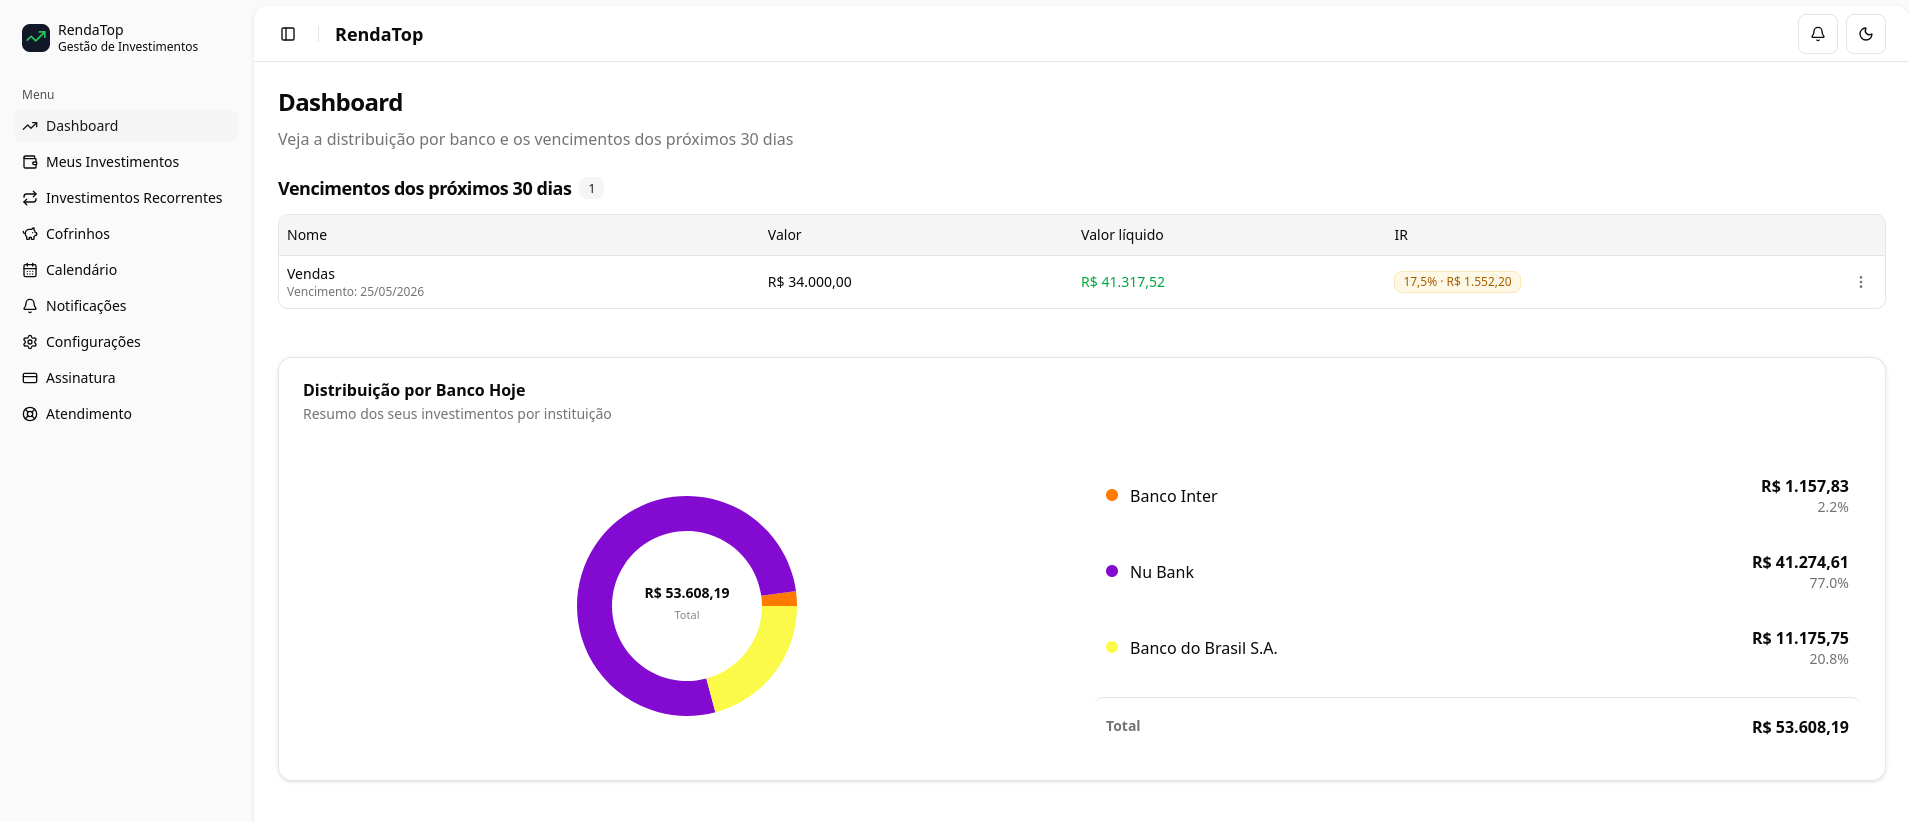
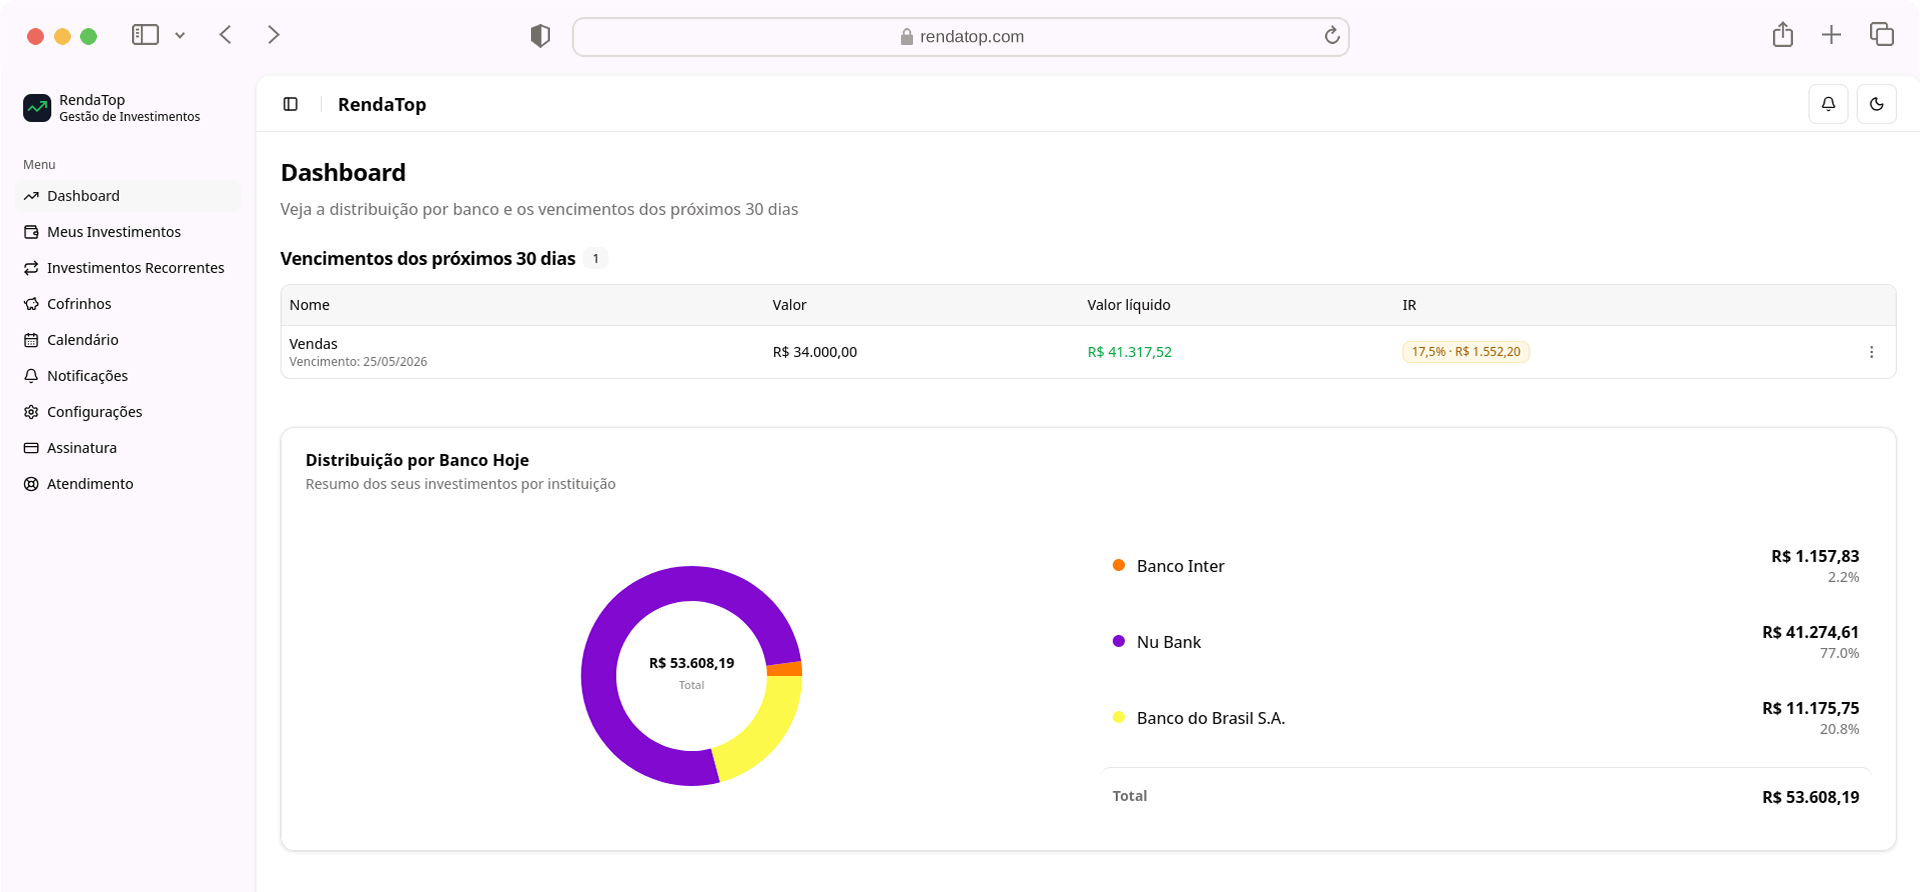
Improving landing interface

diff --git a/landing/nextjs-version/src/app/landing/components/hero-section.tsx b/landing/nextjs-version/src/app/landing/components/hero-section.tsx
@@ -29,23 +29,9 @@ export function HeroSection() {
           </h1>
 
           <p className="mx-auto mb-10 max-w-2xl text-lg text-muted-foreground sm:text-xl">
-            O RendaTop centraliza dashboard, carteira, calendario, notificacoes e configuracoes para voce acompanhar seus investimentos com mais organizacao.
+            No RendaTop você tem dashboard, carteira, calendário com notificações de vencimentos e leitura de comprovantes automáticas para você gerenciar e acompanhar seus investimentos com mais organizaçao.
           </p>
 
-          <div className="flex flex-col gap-4 sm:flex-row sm:justify-center">
-            <Button size="lg" className="text-base cursor-pointer" asChild>
-              <Link href="/app/signup">
-                Criar conta
-                <ArrowRight className="ml-2 h-4 w-4" />
-              </Link>
-            </Button>
-            <Button variant="outline" size="lg" className="text-base cursor-pointer" asChild>
-              <a href="#screenshots">
-                <Play className="mr-2 h-4 w-4" />
-                Ver telas do app
-              </a>
-            </Button>
-          </div>
         </div>
 
         <div className="">

diff --git a/landing/nextjs-version/src/app/landing/components/logo-carousel.tsx b/landing/nextjs-version/src/app/landing/components/logo-carousel.tsx
@@ -20,8 +20,6 @@ export function LogoCarousel() {
             <div className="container mx-auto px-4 sm:px-6 lg:px-8">
                 <div className="text-center">
                     <div className="relative">
-                        <div className="absolute left-0 top-0 bottom-0 w-20 bg-gradient-to-r from-background to-transparent z-10 pointer-events-none" />
-                        <div className="absolute right-0 top-0 bottom-0 w-20 bg-gradient-to-l from-background to-transparent z-10 pointer-events-none" />
                         <div className="overflow-hidden">
                             <div className="flex animate-logo-scroll space-x-8 sm:space-x-12">
                                 {productHighlights.map((item, index) => (
@@ -49,7 +47,7 @@ export function LogoCarousel() {
                                     </Card>
                                 ))}
                             </div>
-                        </div>
+                        </div>  
                     </div>
                 </div>
             </div>

diff --git a/landing/nextjs-version/src/app/landing/components/about-section.tsx b/landing/nextjs-version/src/app/landing/components/about-section.tsx
@@ -42,7 +42,7 @@ export function AboutSection() {
           </h2>
           <p className="text-lg text-muted-foreground mb-8">
             O app foi estruturado para concentrar o acompanhamento da carteira em poucas telas bem definidas,
-            com linguagem direta e foco no que precisa ser acompanhado ao longo do mes.<br />
+            com linguagem direta e foco no que precisa ser acompanhado ao longo do mês.<br />
             Muitos investimentos espalhados entre vários banco? Aqui você pode acompanhar tudo em um so lugar.
           </p>
         </div>
